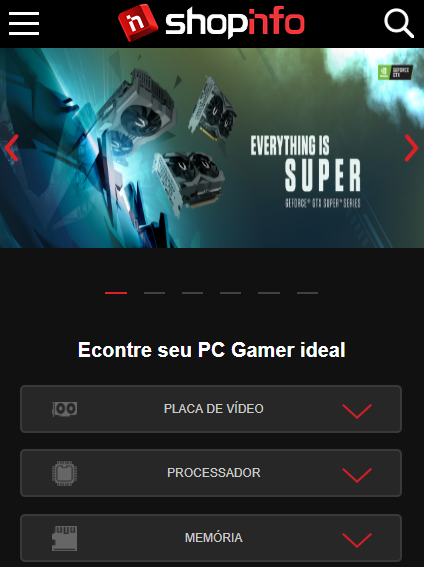
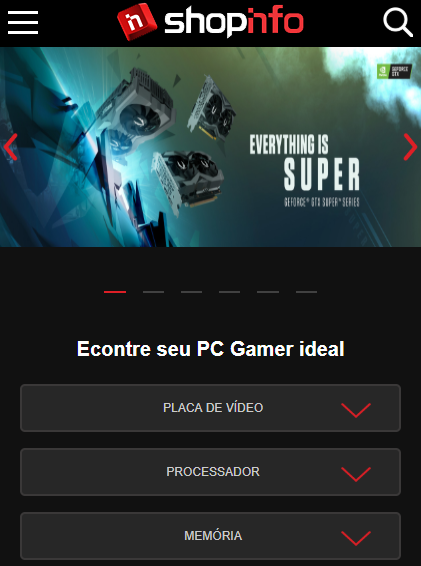
Fixing some problems with responsive

diff --git a/index.html b/index.html
@@ -21,24 +21,24 @@
                 
                                               
                 $('#menu_open_mobile').width(0);                                 
-                $('.teste').css("display", "none");                              
-                $('.icon_mobile').click(function () {
-                    $("#menu_open_mobile").css("height", "100%");
-                    $(".teste").css("width", "100%");
+                $('.linha_menu').css("display", "none");                              
+                $('.icon_mobile').click(function () {                         
+                    $("#menu_open_mobile").css("height", "96%");
+                    $(".linha_menu").css("width", "100%");
                     $('#menu_open_mobile').show().animate({
-                        "width": "100%",                        
+                        "width": "96%",                        
                     }, 500);
-                    $(".teste").fadeIn(800);
+                    $(".linha_menu").fadeIn(800);
                 });                                                
-                $('.close').click(function () {                                                                                                                                          
+                $('.close').click(function () {                      
                     $('#menu_open_mobile').show().animate({
                         "width": "0%",                        
-                    }, 350);
-                    $(".teste").fadeTo(800);
-                    setTimeout(function(){
-                        $('.teste').css("display", "none");                              
-                        $('#menu_open_mobile').height(0);                 
-                    }, 320);                    
+                    }, 500);
+                    $(".linha_menu").fadeOut(400);   
+                    setTimeout(function(){                         
+                        $("#menu_open_mobile").css("height", "0%");
+                        $(".linha_menu").css("width", "0%");
+                    }, 501);                                                                                                                                                                               
                 });                                                
 
 
@@ -221,14 +221,18 @@
                     $(".button_up").css("display", "flex");
                     $(".links_show").animate({
                         height: "608px",
-                    });                                      
+                    });            
+                    $(".links_hide a").css("display", "block");                          
                 });                
                 $(".button_up").click(function(){                
                     $(this).css("display", "none");
                     $(".button_down").css("display", "flex");
                     $(".links_show").animate({
                         height: "30px",
-                    });                                      
+                    });                
+                    setTimeout(function(){
+                        $('.links_hide a').css("display", "none");                                                                   
+                    }, 320);                                                     
                 });
                 $(".button_down2").click(function(){                
                     $(this).css("display", "none");
@@ -236,55 +240,71 @@
                     $(".links_show2").animate({
                         height: "476px",
                     });                                      
+                    $(".links_hide2 a").css("display", "block");                          
                 });                
                 $(".button_up2").click(function(){                
                     $(this).css("display", "none");
                     $(".button_down2").css("display", "flex");
                     $(".links_show2").animate({
                         height: "30px",
-                    });                                      
+                    });            
+                    setTimeout(function(){
+                        $('.links_hide2 a').css("display", "none");                                                                   
+                    }, 320);                 
                 });                
                 $(".button_down3").click(function(){                
                     $(this).css("display", "none");
                     $(".button_up3").css("display", "flex");
                     $(".links_show3").animate({
                         height: "520px",
-                    });                                      
+                    });           
+                    $(".links_hide3 a").css("display", "block");                                                     
                 });                
                 $(".button_up3").click(function(){                
                     $(this).css("display", "none");
                     $(".button_down3").css("display", "flex");
                     $(".links_show3").animate({
                         height: "30px",
-                    });                                      
+                    });            
+                    setTimeout(function(){
+                        $('.links_hide3 a').css("display", "none");                                                                   
+                    }, 320);                 
                 });                
                 $(".button_down4").click(function(){                
                     $(this).css("display", "none");
                     $(".button_up4").css("display", "flex");
                     $(".links_show4").animate({
                         height: "256px",
-                    });                                      
+                    });           
+                    $(".links_hide4 a").css("display", "block");                                                     
                 });                
                 $(".button_up4").click(function(){                
                     $(this).css("display", "none");
                     $(".button_down4").css("display", "flex");
                     $(".links_show4").animate({
                         height: "30px",
-                    });                                      
+                    });            
+                    setTimeout(function(){
+                        $('.links_hide4 a').css("display", "none");                                                                   
+                    }, 320);                                                                     
                 });                
                 $(".button_down5").click(function(){                
                     $(this).css("display", "none");
                     $(".button_up5").css("display", "flex");
                     $(".links_show5").animate({
                         height: "212px",
-                    });                                      
+                    });           
+                    $(".links_hide5 a").css("display", "block");                                                     
                 });                
                 $(".button_up5").click(function(){                
                     $(this).css("display", "none");
                     $(".button_down5").css("display", "flex");
                     $(".links_show5").animate({
                         height: "30px",
-                    });                                      
+                    });            
+                    setTimeout(function(){
+                        $('.links_hide5 a').css("display", "none");                                                                   
+                    }, 320);                 
                 });                                
             });
             </script>            
@@ -367,7 +387,7 @@
                 </div>
             </div>
         </header>                
-        <div class="container-fluid" id="menu_open_mobile" style="display: none">            
+        <div class="container-fluid" id="menu_open_mobile" style="display: none; padding-left: 10px;padding-right: 1%; width: 96%">            
             <div class="row teste" style="margin-top: -10px;">
                 <div class="col-11 linha_menu" style="padding-bottom: 10px; padding-top: 10px">                    
                     <div class="row" id="menu_open_first">
@@ -548,8 +568,8 @@
             </div>  
         </div>
 
-        <div class="escolha_pc">                            
-            <div class="escolha_pc_int">                
+        <div class="escolha_pc">                                        
+            <form method="POST" class="escolha_pc_int" style="margin: 0">
                 <select class="placa_video_opt"name="opcoes">
                     <option value="">PLACA DE VÍDEO</option>
                     <option value="">GeForce GT 1030 2GB</option>
@@ -571,55 +591,55 @@
                     <option value="">Amd Radeon RX 580 8GB</option>
                 </select>                                               
                 <select class="processador_opt"name="opcoes">
-                    <option value="1">PROCESSADOR</option>
-                    <option value="1">i3-8100</option>
-                    <option value="1">i3-9100F</option>
-                    <option value="1">i5-7400</option>
-                    <option value="1">i5-8400</option>
-                    <option value="1">i5-9400F</option>
-                    <option value="1">i7-7700</option>
-                    <option value="1">i7-7700K</option>
-                    <option value="1">i7-8700</option>
-                    <option value="1">i7-9700K</option>
-                    <option value="1">Ryzen 3 2200G</option>
-                    <option value="1">Ryzen 5 2400G</option>
-                    <option value="1">Ryzen 5 2600G</option>
-                    <option value="1">Ryzen 7 2700G</option>
-                    <option value="1">Ryzen 3 3200G</option>
-                    <option value="1">Ryzen 5 3400G</option>
-                    <option value="1">G5400</option>
-                    <option value="1">Athlon 200GE</option>
-                    <option value="1">i3-7100</option>
-                    <option value="1">i3-7350K</option>
-                    <option value="1">i3-6100</option>
-                    <option value="1">A10 9700</option>
-                    <option value="1">A4 7300</option>
-                    <option value="1">A8 9600</option>
-                    <option value="1">i5-4440</option>
-                    <option value="1">i5-6400</option>
-                    <option value="1">i7-6700</option>
+                    <option value="">PROCESSADOR</option>
+                    <option value="">i3-8100</option>
+                    <option value="">i3-9100F</option>
+                    <option value="">i5-7400</option>
+                    <option value="">i5-8400</option>
+                    <option value="">i5-9400F</option>
+                    <option value="">i7-7700</option>
+                    <option value="">i7-7700K</option>
+                    <option value="">i7-8700</option>
+                    <option value="">i7-9700K</option>
+                    <option value="">Ryzen 3 2200G</option>
+                    <option value="">Ryzen 5 2400G</option>
+                    <option value="">Ryzen 5 2600G</option>
+                    <option value="">Ryzen 7 2700G</option>
+                    <option value="">Ryzen 3 3200G</option>
+                    <option value="">Ryzen 5 3400G</option>
+                    <option value="">G5400</option>
+                    <option value="">Athlon 200GE</option>
+                    <option value="">i3-7100</option>
+                    <option value="">i3-7350K</option>
+                    <option value="">i3-6100</option>
+                    <option value="">A10 9700</option>
+                    <option value="">A4 7300</option>
+                    <option value="">A8 9600</option>
+                    <option value="">i5-4440</option>
+                    <option value="">i5-6400</option>
+                    <option value="">i7-6700</option>
                 </select>                                               
                 <select class="memoria_opt"name="opcoes">
-                    <option value="1">MEMÓRIA</option>
-                    <option value="1">4GB</option>
-                    <option value="1">8GB</option>
-                    <option value="1">16GB</option>
-                    <option value="1">32GB</option>
+                    <option value="">MEMÓRIA</option>
+                    <option value="">4GB</option>
+                    <option value="">8GB</option>
+                    <option value="">16GB</option>
+                    <option value="">32GB</option>
                 </select>                                                                     
                 <select class="ssd_opt"name="opcoes">
-                    <option value="1">HD/SSD</option>
-                    <option value="1">500 GB</option>
-                    <option value="1">1 TB</option>
-                    <option value="1">SSD 120GB</option>
-                    <option value="1">SSD 240GB</option>
-                    <option value="1">SSD 480GB</option>
+                    <option value="">HD/SSD</option>
+                    <option value="">500 GB</option>
+                    <option value="">1 TB</option>
+                    <option value="">SSD 120GB</option>
+                    <option value="">SSD 240GB</option>
+                    <option value="">SSD 480GB</option>
                 </select>                               
                 <div class="busca">
                     <div class="busca_int">
-                        <b>BUSCAR</b>
+                        <input type="button" value="BUSCAR"/>
                     </div>
                 </div>     
-            </div>                             
+            </form>                                        
         </div>
 
         <div style="height: 1000px"></div>

diff --git a/assets/css/style.css b/assets/css/style.css
@@ -339,12 +339,21 @@ form #search:focus, input:focus, select:focus {
 }
 .busca{
     width: 14%;
+    height: 60%;
     background-color: #dd1f26;
     display: flex;
     justify-content: center;
     align-items: center;    
     color: #FFF;
     border: 2px solid #e86969;
+    padding-top: 7px;
+    padding-bottom: 7px;
+}
+.busca input{
+    color: #FFF;
+    background-color: #dd1f26;
+    border: 0;
+    font-weight: bold;
 }
 .placa_video_opt,
 .processador_opt,
@@ -396,6 +405,7 @@ form #search:focus, input:focus, select:focus {
 .links_hide5 a{
     color: #dd1f26;
     padding: 10px;
+    display: none;
 }
 .links_show button,
 .links_show2 button,
@@ -663,19 +673,20 @@ form #search:focus, input:focus, select:focus {
     }
 
     .placa_video_opt{        
-        background-size: 35px 25px, 40px 20px;                  
+        background-size: 0px, 40px 20px;                  
     }
     .processador_opt{        
-        background-size: 35px 35px, 40px 20px;          
+        background-size: 0px, 40px 20px;          
     }
     .memoria_opt{        
-        background-size: 35px 35px, 40px 20px;                  
+        background-size: 0px, 40px 20px;                  
     }
     .ssd_opt{        
-        background-size: 35px 35px, 40px 20px;                  
+        background-size: 0px, 40px 20px;                  
     }
     .busca{
         width: 99%;
+        height: auto;
         padding-top: 7px;
         padding-bottom: 7px;
         border-radius: 5px;
@@ -765,9 +776,9 @@ form #search:focus, input:focus, select:focus {
         padding-right: 5px;
     }
 
-    #menu_open_mobile{                        
-        position: fixed;
+    #menu_open_mobile{                                
         margin-top: -50px;
+        position: absolute;
     }
 
     .linha_menu{
@@ -809,6 +820,9 @@ form #search:focus, input:focus, select:focus {
 }
 
 @media only screen and (max-width: 426px){
+    .teste{
+        width: 100%;
+    }
     .escolha_pc_int{
         display: flex;
         flex-direction: column;        
@@ -817,19 +831,20 @@ form #search:focus, input:focus, select:focus {
     }
 
     .placa_video_opt{        
-        background-size: 25px 15px, 30px 15px;                  
+        background-size: 0px, 30px 15px;                  
     }
     .processador_opt{        
-        background-size: 25px 25px, 30px 15px;          
+        background-size: 0px, 30px 15px;          
     }
     .memoria_opt{        
-        background-size: 25px 25px, 30px 15px;                  
+        background-size: 0px, 30px 15px;                  
     }
     .ssd_opt{        
-        background-size: 25px 25px, 30px 15px;                  
+        background-size: 0px, 30px 15px;                  
     }
     .busca{
         width: 99%;
+        height: auto;
         padding-top: 7px;
         padding-bottom: 7px;
         border-radius: 5px;
@@ -917,7 +932,7 @@ form #search:focus, input:focus, select:focus {
     }
 
     #menu_open_mobile{                        
-        position: fixed;
+        position: absolute;
         margin-top: -50px;
     }
 
